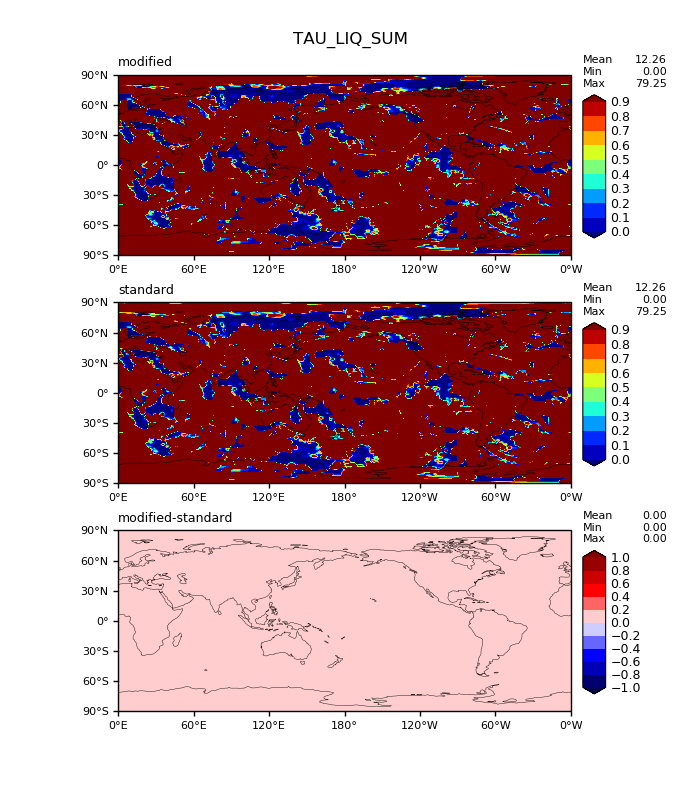
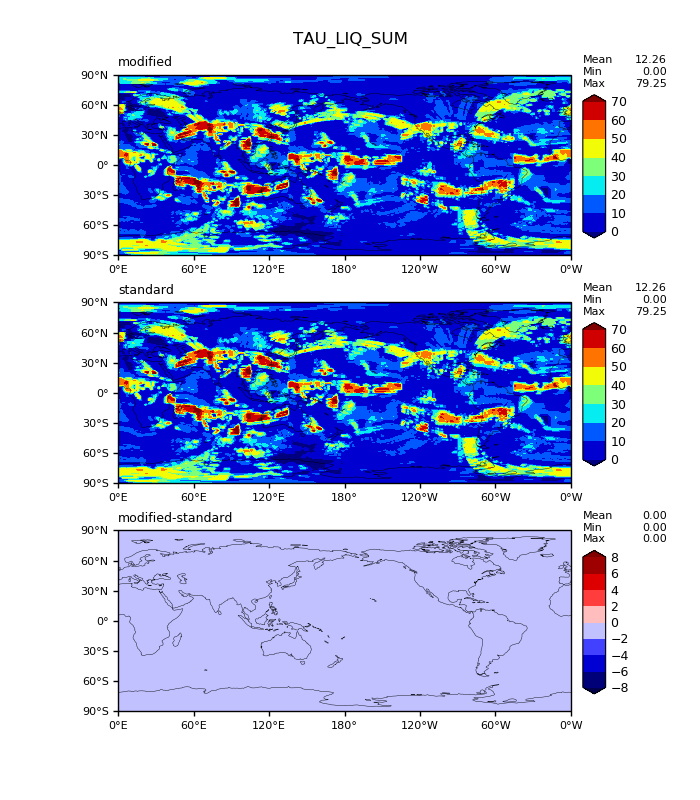
plot tau liq

diff --git a/d1_lon_lat_contour_model_vs_model_tau.py b/d1_lon_lat_contour_model_vs_model_tau.py
@@ -48,7 +48,7 @@ lon=file_ctl.variables["lon"]
 lev=file_ctl.variables["lev"]
 
 #varnm="FSSDCLRS14"
-varnm="TAUA_ICE_SUM"
+varnm="TAU_LIQ_SUM"
 #varnm_off="LWCF_OFF"  #offline computation
 #units=r"W/m$^2$"
 units=""
@@ -111,7 +111,7 @@ for i in range(0,3):
         #cnlevels=np.arange(125,300,20)
         #cnlevels=np.arange(70,420,30)
         #cnlevels=np.arange(20,150,10)
-        cnlevels=np.arange(0,18,2)
+        cnlevels=np.arange(0,80,10)
     else:
         #cnlevels=np.arange(-9,10,1.5)
         cnlevels=np.arange(-8,10,2)
